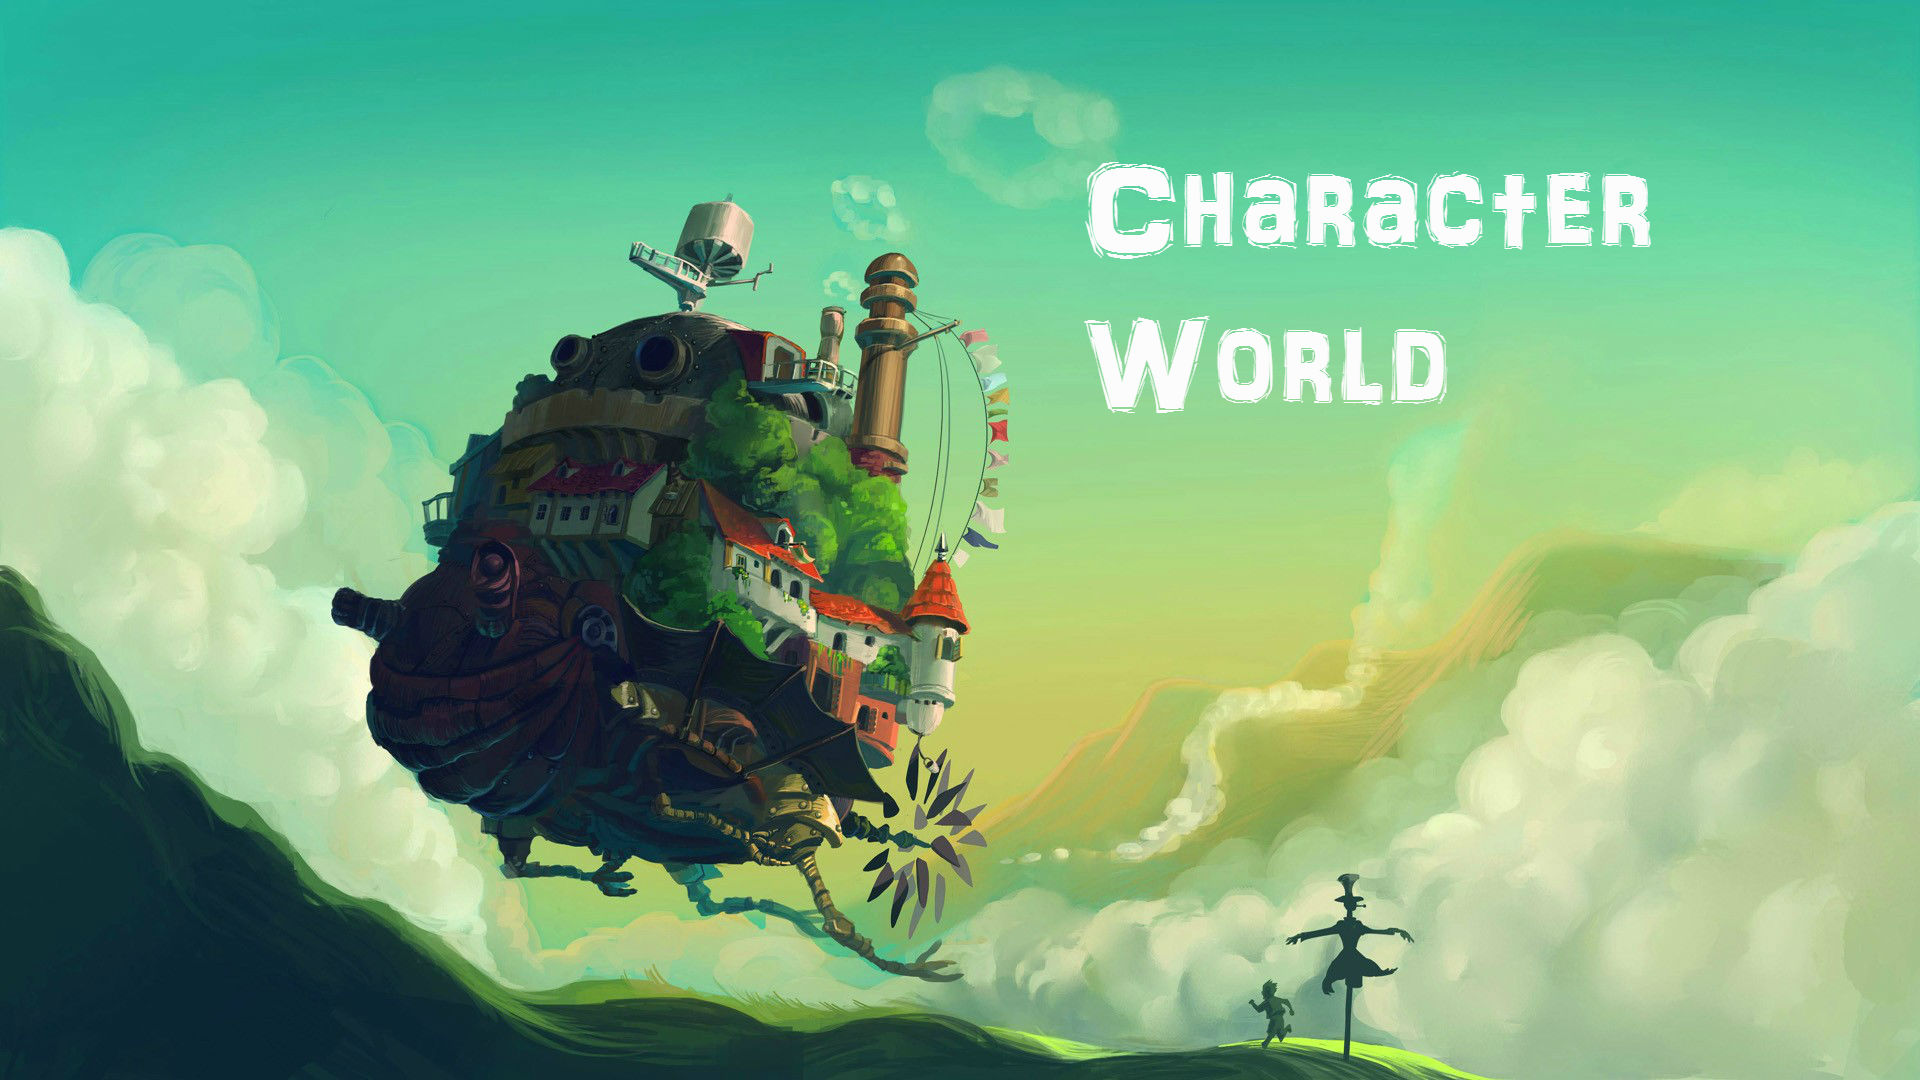
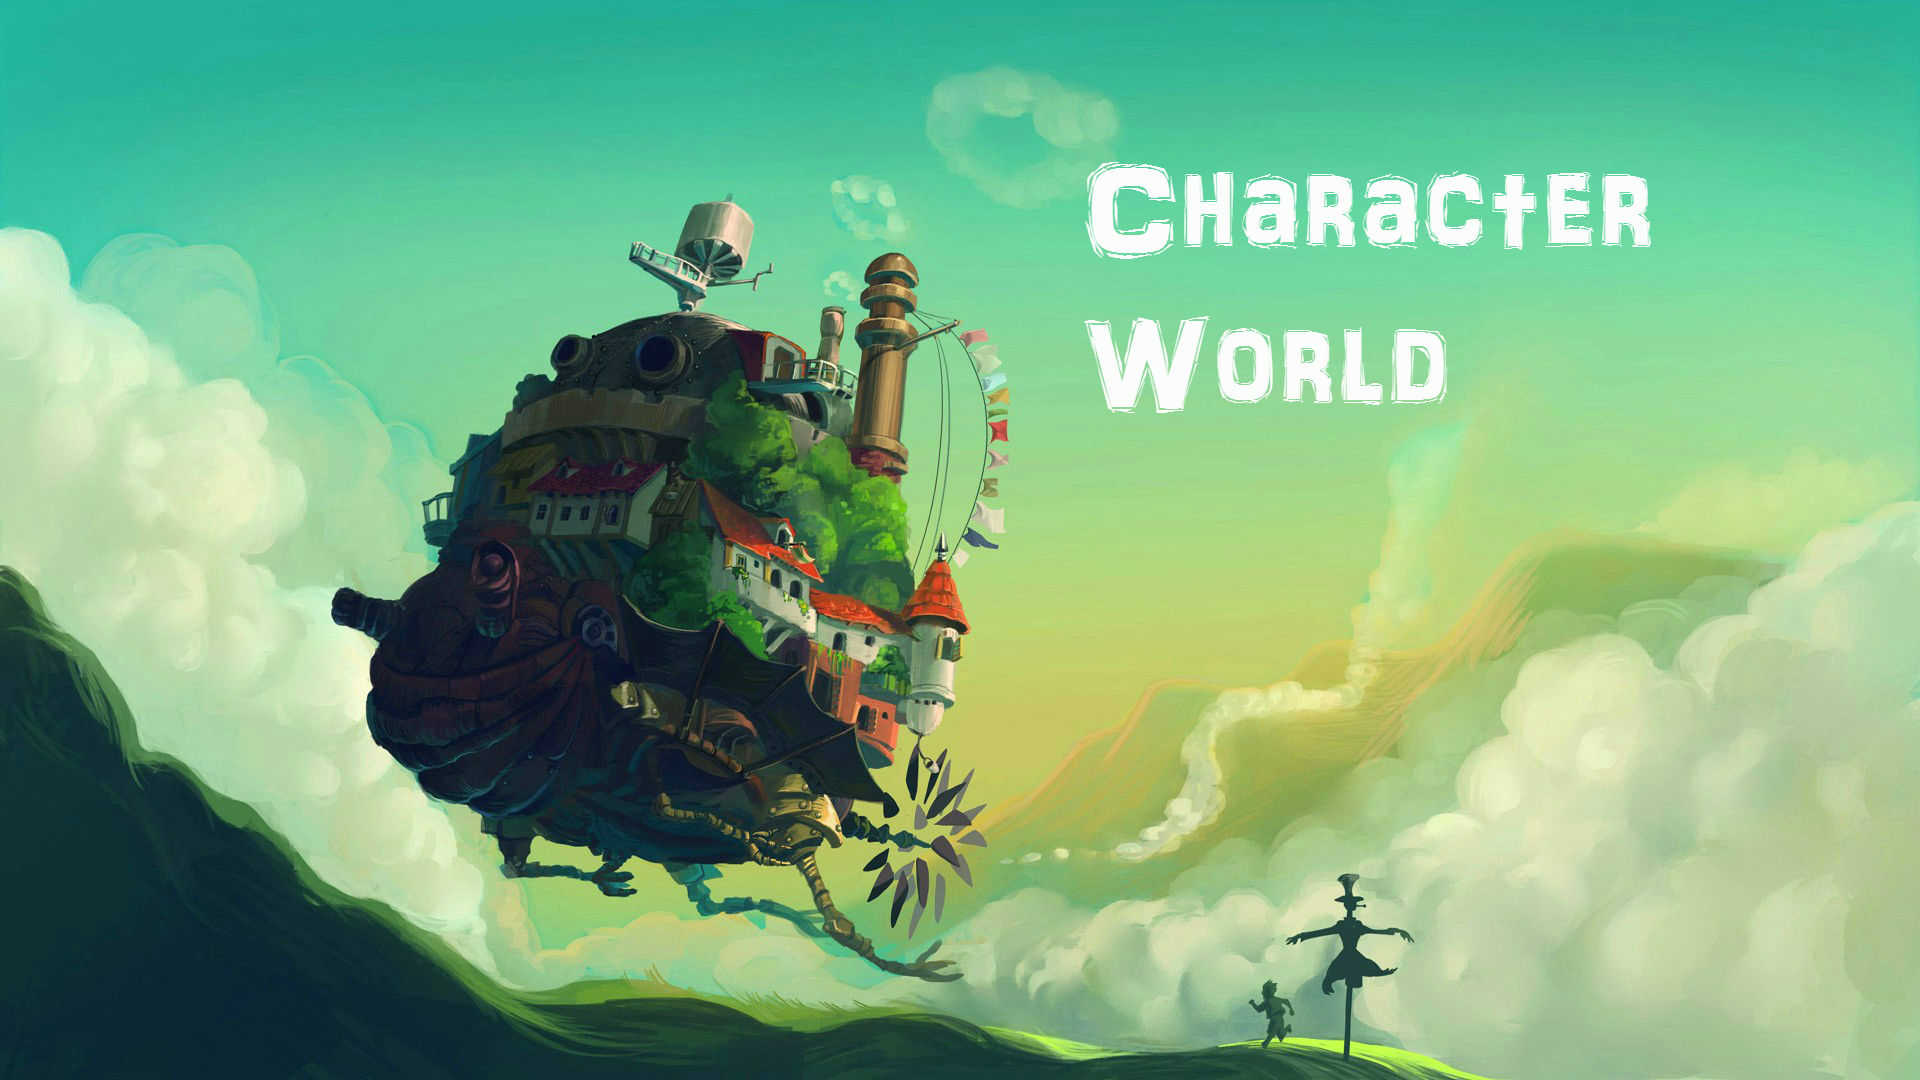
app.css-> 600px to 900px index.ejs parallax scrolling fixed

Changed region(s): [[0.7188, 0.1528, 0.75, 0.1833]]

diff --git a/public/Content/app.css b/public/Content/app.css
@@ -1,5 +1,6 @@
 /* fonts and other imports */
 
+
 /**************************************************************************/
 
 body {
@@ -19,8 +20,28 @@ div#homeDiv {
     padding-top: 20%;
     padding-bottom: 23%;
     margin-top: 50px;
+    background-attachment: fixed;
 }
+
+div#homeDiv2 {
+    background-image: url(../Assets/Images/homePageWallpaper1.jpg);
+    background-size: cover;
+    background-repeat: no-repeat;
+    width: 100%;
+    padding-top: 20%;
+    padding-bottom: 23%;
+    /*margin-top: 2px;*/
+    /*background-attachment: fixed;
+    background-position-x: center;
+    background-position-y: 40px;*/
+    background-attachment: fixed;
+    background-position-y: -20%;
+}
+
+
 /* Navbar styles go here */
+
+
 /* Add a black background color to the top navigation */
 
 .topnav {
@@ -123,8 +144,35 @@ This class makes the topnav look good on small screens
     div.characterInfoContent table {
         display: inline-block;
     }
-    div#homeDiv h1{
+    div#homeDiv h1 {
         font-size: 35px;
+    }
+    div#homeDiv {
+        background-attachment: scroll;
+    }
+    div#homeDiv2 {
+        background-attachment: scroll;
+        background-position-y: 0px;
+    }
+}
+/* media queries for parallax scrolling
+   on index.ejs between 600px and 900px */
+@media (min-width: 600px) and (max-width:900px) {
+    div#homeDiv {
+        background-size: contain;
+        background-repeat: no-repeat;
+        width: 100%;
+        margin-top: 50px;
+        background-attachment: fixed;
+    }
+    div#homeDiv2 {
+        background-size: contain;
+        background-repeat: no-repeat;
+        width: 100%;
+        background-attachment: fixed;
+        background-position-x: center;
+        padding-top: 33%;
+        background-position-y: bottom;
     }
 }
 
